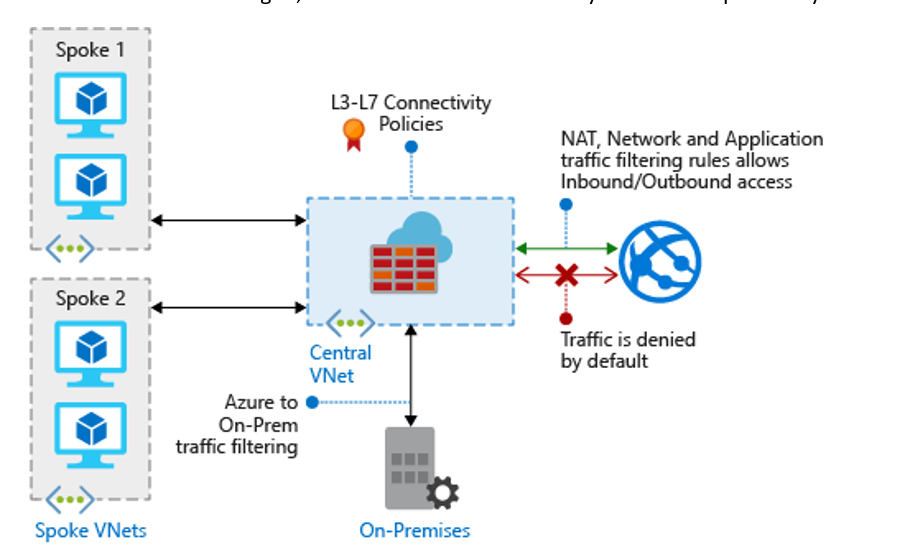
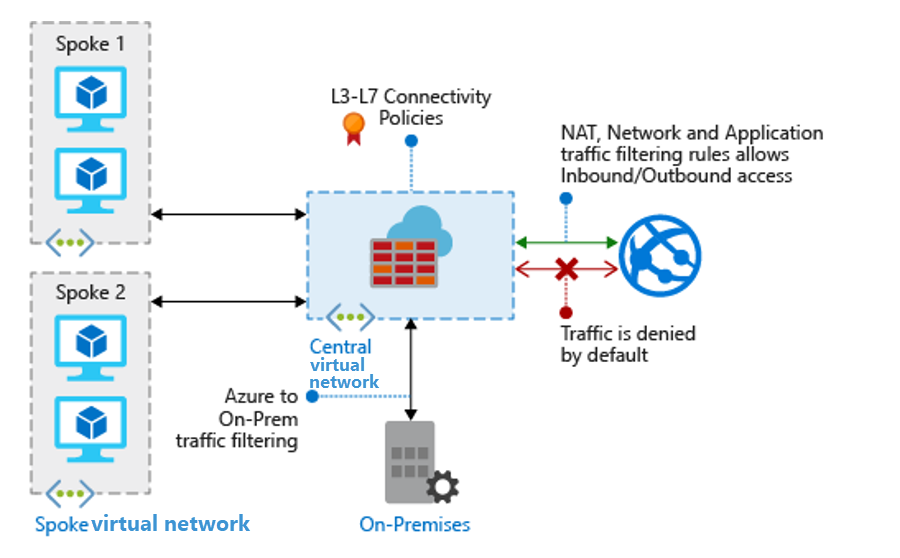
image edits.

diff --git a/docs/migrate/azure-best-practices/migrate-best-practices-networking.md b/docs/migrate/azure-best-practices/migrate-best-practices-networking.md
@@ -72,7 +72,7 @@ Consider the following information:
 - You can use spoke virtual networks to isolate workloads, with each spoke managed separately from other spokes. Each workload can include multiple tiers, and multiple subnets that are connected with Azure load balancers.
 - You can implement hub and spoke virtual networks in different resource groups, and even in different subscriptions. When you peer virtual networks in different subscriptions, the subscriptions can be associated to the same, or different, Azure Active Directory (Azure AD) tenants. This association creates decentralized management of each workload, while sharing services maintained in the hub network.
 
-![Diagram of a hub and spoke topology](./media/migrate-best-practices-networking/hub-spoke.png)
+![Diagram that shows a hub and spoke topology.](./media/migrate-best-practices-networking/hub-spoke.png)
 *Figure 1: Hub and spoke topology.*
 
 **Learn more:**
@@ -120,7 +120,7 @@ Azure adds a DNS server by default when you deploy a virtual network. You can us
 - DNS servers specified for a network interface or cloud service take precedence over DNS servers specified for the virtual network.
 - In Azure Resource Manager, you can specify DNS servers for a virtual network and a network interface, but the best practice is to use the setting only on virtual networks.
 
-    ![Screenshot of DNS servers for a virtual network.](./media/migrate-best-practices-networking/dns2.png)
+    :::image type="content" source="./media/migrate-best-practices-networking/dns2.png" alt-text="Screenshot that shows DNS servers for a virtual network.":::
     *Figure 2: DNS servers for a virtual network.*
 
 **Learn more:**
@@ -138,21 +138,21 @@ Here are a few more points to be aware of as you set up Availability Zones:
 
 - With Availability Zones, Azure offers an SLA of 99.99 percent for VM uptime.
 
-    ![Diagram of Availability Zones within an Azure region.](./media/migrate-best-practices-networking/availability-zone.png)
+    ![Diagram that shows availability zones within an Azure region.](./media/migrate-best-practices-networking/availability-zone.png)
 
-    *Figure 3: Availability Zones.*
+    *Figure 3: Availability zones.*
 
 - You can plan and build high-availability into your migration architecture by colocating compute, storage, networking, and data resources within a zone. Then you can replicate them in other zones. Azure services that support availability zones fall into two categories:
   - **Zonal services:** You associate a resource with a specific zone, such as VMs, managed disks, or IP addresses.
   - **Zone-redundant services:** The resource replicates automatically across zones, such as zone-redundant storage or Azure SQL Database.
 - To provide zonal fault tolerance, you can deploy a standard Azure Load Balancer instance with internet-facing workloads or application tiers.
 
-    ![Diagram of a standard Azure load balancer.](./media/migrate-best-practices-networking/load-balancer.png)
+    ![Diagram that shows a standard Azure load balancer.](./media/migrate-best-practices-networking/load-balancer.png)
     *Figure 4: Load balancer.*
 
 **Learn more:**
 
-- Read the [Availability Zones overview](/azure/availability-zones/az-overview).
+- Read the [availability zones overview](/azure/availability-zones/az-overview).
 
 ## Design hybrid cloud networking
 
@@ -192,7 +192,7 @@ When setting up a Site-to-Site VPN:
 - You specify the gateway SKU that you want to use. This SKU depends on your workload requirements, throughput, features, and SLAs.
 - Border Gateway Protocol (BGP) is an optional feature. You can use it with Azure ExpressRoute and route-based VPN gateways to propagate your on-premises BGP routes to your virtual networks.
 
-![Diagram of a Site-to-Site VPN.](./media/migrate-best-practices-networking/vpn.png)
+![Diagram that shows a site-to-site VPN.](./media/migrate-best-practices-networking/vpn.png)
 *Figure 5: Site-to-Site VPN.*
 
 **Learn more:**
@@ -264,7 +264,7 @@ Now imagine that you have an Azure deployment (for example, Azure App Service) i
   - Without knowing which prefix is from which region, prefixes aren't treated differently.
   - Your WAN network can assume that both prefixes are closer to `East US` than `West US`, and then route users from both offices to the ExpressRoute circuit in `East US`. This routing provides a worse experience for users in the Los Angeles office.
 
-![Diagram of VPN with a route path through the wrong circuit.](./media/migrate-best-practices-networking/bgp1.png)
+![Diagram that shows a VPN with a route path through the wrong circuit.](./media/migrate-best-practices-networking/bgp1.png)
 *Figure 6: BGP communities unoptimized connection.*
 
 **Solution:**
@@ -277,7 +277,7 @@ To optimize routing for both offices, you need to know which prefix is from Azur
 - In our example, you assign a higher local preference value to `13.100.0.0/16` in `West US` than in `East US`. Similarly, you assign a higher local preference value to `23.100.0.0/16` in `East US` than in `West US`.
 - This configuration ensures that when both paths to Microsoft are available, users in Los Angeles connect to the `West US` region by using the west circuit, and users in New York connect to the `East US` region by using the east circuit.
 
-![Diagram of a VPN with a route path through the correct circuit.](./media/migrate-best-practices-networking/bgp2.png)
+![Diagram that shows a VPN with a route path through the correct circuit.](./media/migrate-best-practices-networking/bgp2.png)
 *Figure 7: BGP communities optimized connection.*
 
 **Learn more:**
@@ -318,7 +318,7 @@ Although Microsoft invests heavily in protecting the cloud infrastructure, you m
 
 Here's an example of a single subnet perimeter network in a corporate network, with two security boundaries.
 
-![Diagram of an Azure Virtual Network perimeter network deployment.](./media/migrate-best-practices-networking/perimeter.png)
+![Diagram that shows an Azure Virtual Network perimeter network deployment.](./media/migrate-best-practices-networking/perimeter.png)
 *Figure 8: Perimeter network deployment.*
 
 **Learn more:**
@@ -376,7 +376,7 @@ Application security groups enable you to configure network security as a natura
 
 **Example:**
 
-![Diagram of an example application security group.](./media/migrate-best-practices-networking/asg.png)
+![Diagram that shows an example application security group.](./media/migrate-best-practices-networking/asg.png)
 *Figure 9: Application security group example.*
 
 | Network interface | Application security group |
@@ -408,7 +408,7 @@ Virtual network service endpoints extend your virtual network private address sp
 - Virtual network private address space can be overlapping, and can't be used to uniquely identify traffic originating from a virtual network.
 - After you enable service endpoints in your virtual network, you can secure Azure service resources by adding a virtual network rule to the service resources. This addition provides improved security by fully removing public internet access to resources, and allowing traffic only from your virtual network.
 
-![Diagram of service endpoints.](./media/migrate-best-practices-networking/endpoint.png)
+![Diagram that shows service endpoints.](./media/migrate-best-practices-networking/endpoint.png)
 *Figure 10: Service endpoints.*
 
 **Learn more:**
@@ -440,7 +440,7 @@ Azure has platform-level security features, including Azure Firewall, Azure Web 
 
 Azure Firewall is a managed, cloud-based, network security service that helps protect your virtual network resources. It's a fully stateful, managed firewall, with built-in high availability and unrestricted cloud scalability.
 
-![Diagram of Azure Firewall.](./media/migrate-best-practices-networking/firewall.png)
+![Diagram that shows Azure Firewall.](./media/migrate-best-practices-networking/firewall.png)
 *Figure 11: Azure Firewall.*
 
 Here are a few points to be aware of if you deploy the service:
@@ -482,9 +482,8 @@ Here are some more notes about WAF:
 
 Network Watcher provides tools to monitor resources and communications in an Azure virtual network. For example, you can monitor communications between a VM and an endpoint, such as another VM or FQDN. You can also view resources and resource relationships in a virtual network, or diagnose network traffic issues.
 
-![Screenshot of Azure Network Watcher.](./media/migrate-best-practices-networking/network-watcher.png)
+![Screenshot that shows Azure Network Watcher.](./media/migrate-best-practices-networking/network-watcher.png)
 
-![Screenshot of Network Watcher.](./media/migrate-best-practices-networking/network-watcher.png)
 *Figure 12: Network Watcher.*
 
 Here are a few more details:
